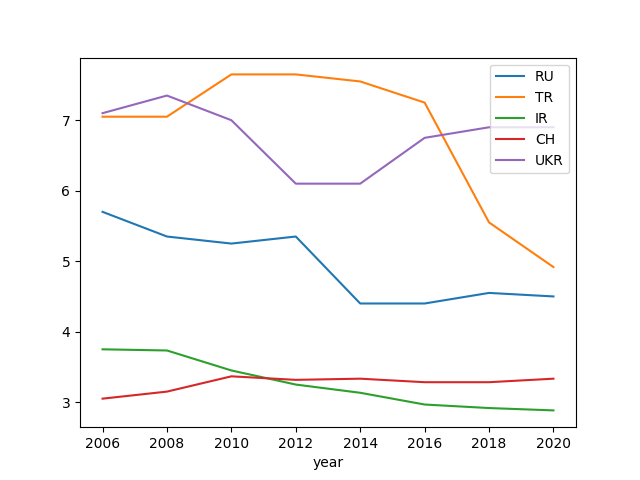
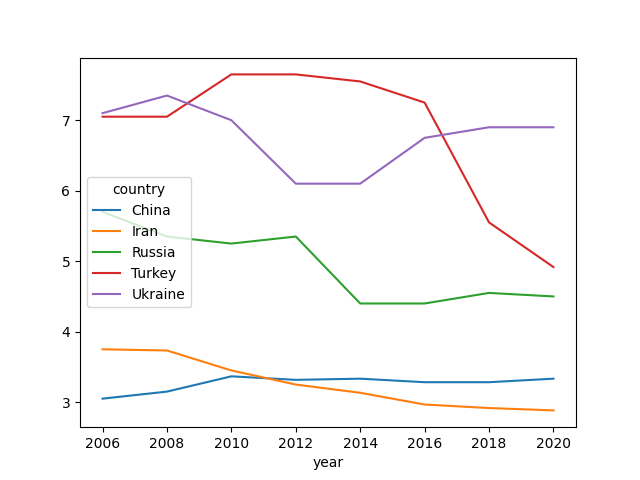
--

diff --git a/en/2015/09/democracy-status.md b/en/2015/09/democracy-status.md
@@ -29,15 +29,10 @@ selected countries, recently updated for 2020.
 ```python
 import pandas as pd
 df = pd.read_stata('../../tweets/2020/BTI 2006-2020.dta')
-df = df.set_index('year')
-df1 = df[df.country == 'Russia'].dem_stat
-df2 = df[df.country == 'Turkey'].dem_stat
-df3 = df[df.country == 'Iran'].dem_stat
-df4 = df[df.country == 'China'].dem_stat
-df5 = df[df.country == 'Ukraine'].dem_stat
-df3 = pd.concat([df1,df2,df3,df4,df5],axis=1)
-df3.columns = ['RU','TR','IR','CH','UKR']
-df3.plot()
+df1 = df[['country','dem_stat','year']]
+df1 = df1[df1.country.isin(['Russia','Turkey','Iran','China','Ukraine'])]
+df1=df1.pivot(index='year', columns='country', values='dem_stat')
+df1.plot()
 plt.savefig('bti-compare.png')
 ```
 
